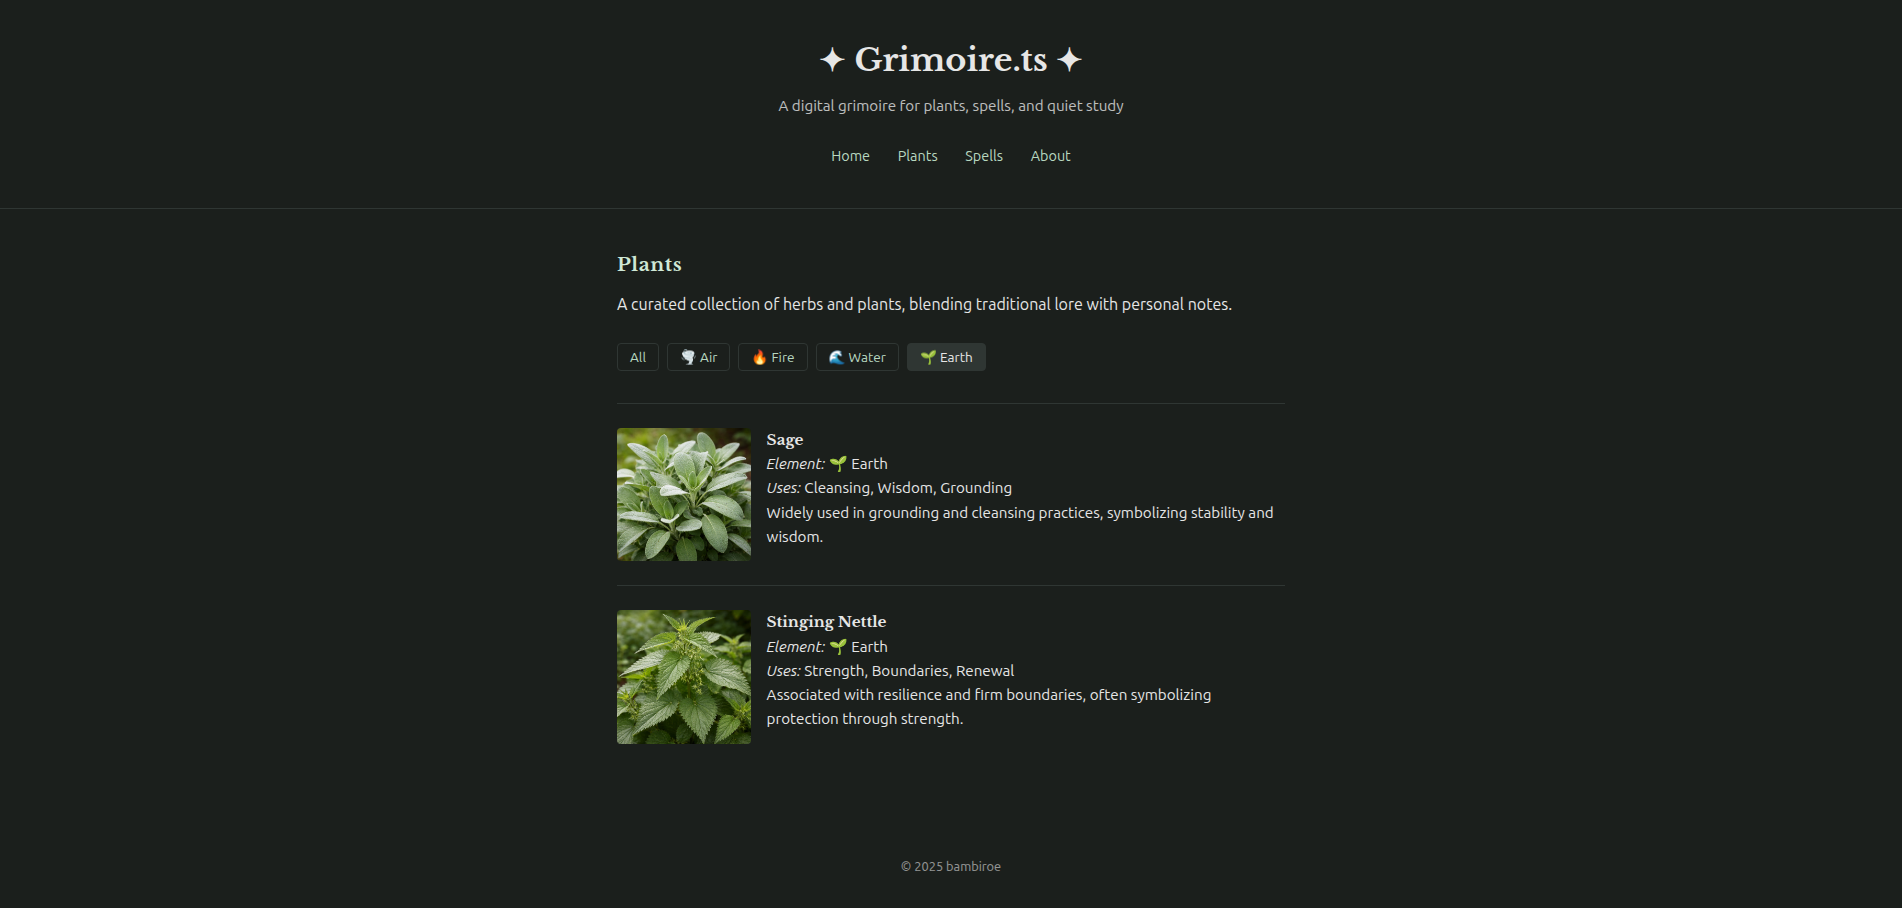
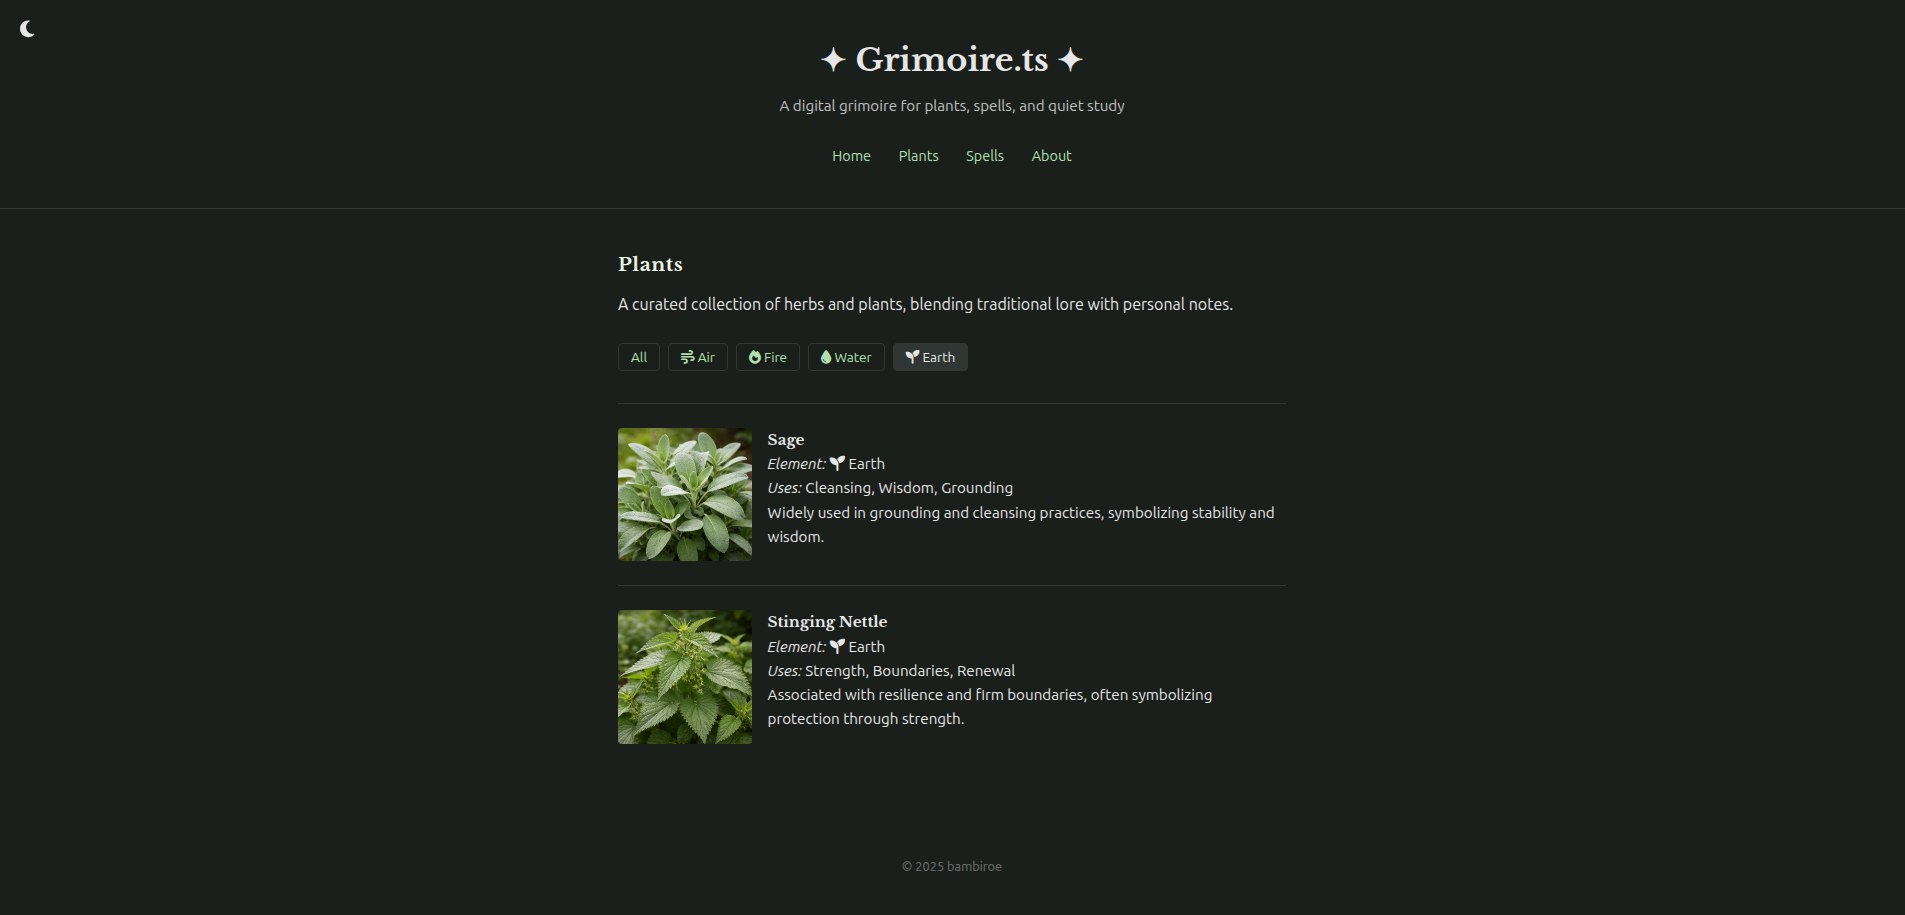
[007] Light/Dark Mode
- Added the option to toggle between Light and Dark mode.
- MInor design improvements.
- README cleanup.

diff --git a/index.html b/index.html
@@ -5,10 +5,15 @@
     <meta name="viewport" content="width=device-width, initial-scale=1.0" />
     <title>Grimoire.ts</title>
 
+    <link rel="stylesheet" href="https://cdnjs.cloudflare.com/ajax/libs/font-awesome/6.5.2/css/all.min.css" />
     <link rel="stylesheet" href="css/style.css" />
   </head>
   <body>
     <header>
+      <!--- Dark/Light Mode --->
+      <button id="themeToggle" aria-label="Toggle dark/light mode">
+        <i class="fa-solid fa-moon"></i>
+      </button>
       <!--- Navigation Bar --->
       <h1>✦ Grimoire.ts ✦</h1>
       <p class="subtitle">
@@ -42,10 +47,10 @@
         <br />
         <div class="filters">
           <button data-element="All" class="filter active">All</button>
-          <button data-element="Air" class="filter">🌪 Air</button>
-          <button data-element="Fire" class="filter">🔥 Fire</button>
-          <button data-element="Water" class="filter">🌊 Water</button>
-          <button data-element="Earth" class="filter">🌱 Earth</button>
+          <button data-element="Air" class="filter"><i class="fa-solid fa-wind"></i> Air</button>
+          <button data-element="Fire" class="filter"><i class="fa-solid fa-fire"></i> Fire</button>
+          <button data-element="Water" class="filter"><i class="fa-solid fa-droplet"></i> Water</button>
+          <button data-element="Earth" class="filter"><i class="fa-solid fa-seedling"></i> Earth</button>
         </div>
       </section>
       <!--- Spells Page --->
@@ -70,6 +75,7 @@
         </p>
         <br />
         <p>
+          <i class="fa-brands fa-github" style="font-size:1.5rem; padding-right: 0.5rem;"></i>
           Check the <strong>GitHub</strong> page <a href="https://github.com/bambiroe/grimoire-ts">here</a>. 
         </p>
       </section>

diff --git a/css/style.css b/css/style.css
@@ -2,6 +2,22 @@
 @import url("https://fonts.googleapis.com/css2?family=Libre+Baskerville:wght@400;700&display=swap");
 @import url("page.css");
 
+:root, [data-theme='dark'] {
+  --bg: #1b1f1c;
+  --brdr: #2f3633;
+  --txt: #e6e6e6;
+  --lnk: #afe1af;
+  --ttl2: #ebf5e4;
+}
+
+[data-theme='light'] {
+  --bg: #fcf5e5;
+  --brdr: #dfd5be;
+  --txt: #1b1f1c;
+  --lnk: #2e8b57;
+  --ttl2: #587a5c;
+}
+
 * {
   margin: 0;
   padding: 0;
@@ -10,15 +26,31 @@
 
 body {
   font-family: system-ui, -apple-system, BlinkMacSystemFont, sans-serif;
-  background-color: #1b1f1c;
-  color: #e6e6e6;
+  background-color: var(--bg);
+  color: var(--txt);
   line-height: 1.6;
 }
 
 header {
   text-align: center;
   padding: 2.5rem 1rem;
-  border-bottom: 1px solid #2f3633;
+  border-bottom: 1px solid var(--brdr);
+}
+
+#themeToggle {
+  position: fixed;
+  top: 1.5rem;
+  left: 1.5rem;
+  background: transparent;
+  border: none;
+  cursor: pointer;
+  text-decoration: none;
+  font-size: 1.2rem;
+  color: var(--txt);
+}
+
+#themeToggle:hover {
+  opacity: 0.7;
 }
 
 .subtitle {
@@ -38,7 +70,7 @@ nav a {
 
 a {
   text-decoration: none;
-  color: #b8d8c0;
+  color: var(--lnk);
 }
 
 a:hover {
@@ -64,14 +96,14 @@ h2 {
   margin-bottom: 0.75rem;
   letter-spacing: 0.03em;
   font-size: 1.2rem;
-  color: #cfe8d6;
+  color: var(--ttl2);
 }
 
 footer {
   text-align: center;
   padding: 1.5rem;
   font-size: 0.8rem;
-  opacity: 0.6;
+  opacity: 0.4;
 }
 
 ul {
@@ -82,7 +114,7 @@ ul {
 li {
   margin-bottom: 1.5rem;
   padding-bottom: 1.5rem;
-  border-bottom: 1px solid #2f3633;
+  border-bottom: 1px solid var(--brdr);
 }
 
 .noselect {

diff --git a/css/page.css b/css/page.css
@@ -15,7 +15,7 @@
   margin-bottom: 0;
   padding-top: 1.5rem;
   padding-bottom: 0;
-  border-top: 1px solid #2f3633;
+  border-top: 1px solid var(--brdr);
   border-bottom: none;
 }
 
@@ -45,8 +45,8 @@
 
 .filter {
   background: transparent;
-  border: 1px solid #2f3633;
-  color: #b8d8c0;
+  border: 1px solid var(--brdr);
+  color: var(--lnk);
   padding: 0.3rem 0.75rem;
   font-family: system-ui, -apple-system, BlinkMacSystemFont, sans-serif;
   font-size: 0.85rem;
@@ -55,12 +55,12 @@
 }
 
 .filter:hover {
-  background-color: #2f3633;
+  background-color: var(--brdr);
 }
 
 .filter.active {
-  background-color: #2f3633;
-  color: #e6e6e6;
+  background-color: var(--brdr);
+  color: var(--txt);
 }
 
 .search {
@@ -70,10 +70,15 @@
 #spellSearch {
   width: 100%;
   padding: 0.5rem;
-  border: 1px solid #2f3633;
+  border: 1px solid var(--brdr);
   border-radius: 4px;
   font-family: system-ui, -apple-system, BlinkMacSystemFont, sans-serif;
-  font-size: 0.9rem;
-  background-color: #1b1f1c;
-  color: #e6e6e6;
+  font-size: 0.85rem;
+  background-color: var(--bg);
+  color: var(--txt);
+}
+
+#spellSearch:active, #spellSearch:focus {
+  outline: none;
+  background: var(--brdr);
 }

diff --git a/dist/main.js b/dist/main.js
@@ -1,6 +1,24 @@
 // src/main.ts
 import { renderPlants } from "./utils/plants.js";
 import { renderSpells } from "./utils/spells.js";
+// ------ Dark/Light Mode ------
+const themeToggleButton = document.getElementById("themeToggle");
+themeToggleButton?.addEventListener("click", toggleTheme);
+function toggleTheme() {
+    // Check current theme and switch it
+    const currentTheme = document.body.getAttribute("data-theme");
+    if (themeToggleButton) {
+        if (currentTheme === "light") {
+            document.body.setAttribute("data-theme", "dark");
+            themeToggleButton.innerHTML = `<i class="fa-solid fa-moon"></i>`; // Moon icon for dark mode
+        }
+        else {
+            document.body.setAttribute("data-theme", "light");
+            themeToggleButton.innerHTML = `<i class="fa-solid fa-sun"></i>`; // Sun icon for light mode
+        }
+    }
+}
+document.body.setAttribute("data-theme", "dark");
 // ------ Show/Hide Pages ------
 const pages = document.querySelectorAll(".page");
 const buttons = document.querySelectorAll("nav a");

diff --git a/src/main.ts b/src/main.ts
@@ -2,6 +2,28 @@
 import { renderPlants } from "./utils/plants.js";
 import { renderSpells } from "./utils/spells.js";
 
+// ------ Dark/Light Mode ------
+const themeToggleButton = document.getElementById("themeToggle");
+
+themeToggleButton?.addEventListener("click", toggleTheme);
+
+function toggleTheme() {
+  // Check current theme and switch it
+  const currentTheme = document.body.getAttribute("data-theme");
+
+  if(themeToggleButton) {
+    if (currentTheme === "light") {
+      document.body.setAttribute("data-theme", "dark");
+      themeToggleButton.innerHTML = `<i class="fa-solid fa-moon"></i>`; // Moon icon for dark mode
+    } else {
+      document.body.setAttribute("data-theme", "light");
+      themeToggleButton.innerHTML = `<i class="fa-solid fa-sun"></i>`; // Sun icon for light mode
+    }
+  }
+}
+
+document.body.setAttribute("data-theme", "dark");
+
 // ------ Show/Hide Pages ------
 const pages = document.querySelectorAll<HTMLElement>(".page");
 const buttons = document.querySelectorAll<HTMLElement>("nav a");

diff --git a/dist/utils/plants.js b/dist/utils/plants.js
@@ -1,10 +1,10 @@
 // src/utils/plants.ts
 import { plants } from "../data/plants.js";
 const elementIcons = {
-    Air: "🌪",
-    Fire: "🔥",
-    Water: "🌊",
-    Earth: "🌱",
+    Air: '<i class="fa-solid fa-wind"></i>',
+    Fire: '<i class="fa-solid fa-fire"></i>',
+    Water: '<i class="fa-solid fa-droplet"></i>',
+    Earth: '<i class="fa-solid fa-seedling"></i>'
 };
 export function renderPlants(element) {
     const plantsSection = document.getElementById("plants");

diff --git a/src/utils/plants.ts b/src/utils/plants.ts
@@ -2,10 +2,10 @@
 import { plants } from "../data/plants.js";
 
 const elementIcons: Record<string, string> = {
-  Air: "🌪",
-  Fire: "🔥",
-  Water: "🌊",
-  Earth: "🌱",
+  Air: '<i class="fa-solid fa-wind"></i>',
+  Fire: '<i class="fa-solid fa-fire"></i>',
+  Water: '<i class="fa-solid fa-droplet"></i>',
+  Earth: '<i class="fa-solid fa-seedling"></i>'
 };
 
 export function renderPlants(element: string) {

diff --git a/README.md b/README.md
@@ -25,36 +25,44 @@ This project is designed to provide an **easy-to-use interface** for anyone who 
 
 ## 🔮 Future Ideas
 
-- Dark/Light themes
 - Expand the data
 - Custom animations
 - Seperate design for mobile
 
 ## Run the Project
 
-Open in GitHub Pages: [Grimoire.ts](https://bambiroe.github.io/grimoire-ts/)
+Open in **GitHub Pages**: [Grimoire.ts](https://bambiroe.github.io/grimoire-ts/)
 
-OR
+*OR*
 
-1. Clone the repo:
+**1.** Clone the repo:
+
 ```bash
 git clone https://github.com/bambiroe/grimoire-ts.git
 ```
-2. Navigate to the project directory:
+
+**2.** Navigate to the project directory:
+
 ```bash
 cd grimoire-ts
 ```
-3. Install dependencies (if you plan to run locally):
+
+**3.** Install dependencies (if you plan to run locally):
+
 ```bash
 npm install
 ```
-4. Run the app:
+
+**4.** Run the app:
+
 ```bash
 npx tsc && python3 -m http.server
 ```
-5. Open your browser and visit `http://localhost:8000` to view the app.
+
+**5.** Open your browser and visit `http://localhost:8000` to view the app.
 
 ## 🌿 Author
 
 Created by [*@bambiroe*](https://github.com/bambiroe).
-This project is licensed under the *MIT License* - see the [LICENSE](LICENSE) file for details.
+
+This project is licensed under the *MIT License* - *see the [LICENSE](LICENSE) file for details*.
